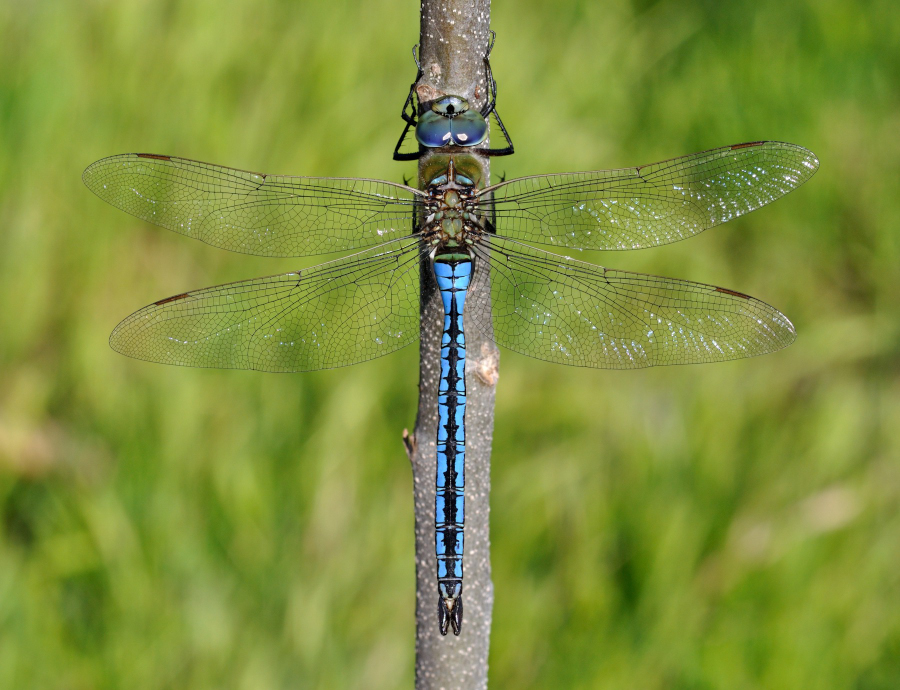
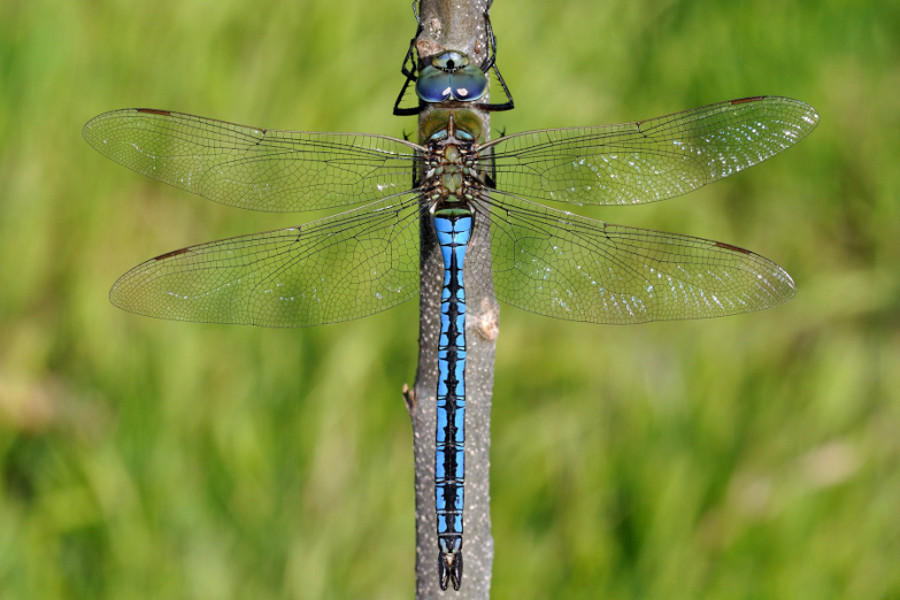
cont

diff --git a/css/layout.css b/css/layout.css
@@ -3,6 +3,7 @@ body {
     padding: 50px;
     color: #000;
     font-family: 'Ubuntu', sans-serif;
+    background-image: url(../images/03_desaturated_lightest.jpg);
 }
 
 
@@ -22,7 +23,6 @@ body {
     margin-bottom: 0;
 }
 
-!!!!!!!!!!!!NAVIGATION VIDEO 4 2:32 CONTINUE FROM THERE!!!!!!!!!!!!!!!
 
 .logo{
     grid-area:logo;
@@ -32,20 +32,25 @@ body {
     margin-bottom: 0;
 }
 
-.banner {
-    grid-area: banner;
+
+.top-title {
+    grid-area: top-title;
+    padding: 0px;
+    margin-bottom: 0;
 }
 
-.nav {
-    grid-area: nav;
-    background-color: #DDD;  /* silver */
-    font-size: 150%;
-    text-align: center;
+.header{
+    grid-area: header;
+    display: grid;
+    width: 100%;
+    align-items: center;
+    padding-bottom: 0;
+    margin-bottom: 0;
 }
 
 .main {
     grid-area: main;
-    background-color: #EEE;  /* very pale grey */
+    background-color: rgba(255,255,255,.5);  /* very pale grey */
     border: solid 1px #CCC;
 }
 
@@ -63,7 +68,7 @@ body {
 .box {
     padding: 20px;
     /* border-radius: 10px; */
-    background-color: #ddd;
+    /* background-color: #ddd; */
 }
 
 
@@ -73,6 +78,26 @@ h1, h2, h3, h4 {
     font-family: 'Ubuntu', sans-serif;
 }
 
+/* Responsive image rules */
+.responsive {
+    width: 100%;
+    height: auto;
+}
+
+.info-text{
+
+    display: flex;
+    flex-direction: column;
+
+}
+
+ul.text {
+    list-style: disc;
+    display: list-item;
+    border: none;
+    margin-left: 20px;
+}
+
 /* Navigation Links */
 .nav a {font-weight: bold;}
 .nav a:link, .nav a:visited {color: #AA0000;} /*dark red */
@@ -80,12 +105,25 @@ h1, h2, h3, h4 {
 
 
 /* links in page */
-a {font-weight: bold;}
-a:link{color: #AA0000;} /*dark_red */
-a:visited{color: #111177;} /* dark blue */
-a:hover{color: #000;}    /* Black*/
+a.nav {font-weight: bold;}
+a.nav:link, a.nav:visited {color: #AA0000;} /*dark_red */
+a.nav:hover {color: #604830; text-decoration: none;}    /*Chooclate Brown*/
 
+@media(max-width: 767px)
+{
+    .wrapper{
+        display:grid;
+        grid-template-columns: 100px 1fr;
+        grid-template-rows: auto;
+        grid-template-areas: 
+            "logo top-title "
+            "header header"
+            "main main"
+            "footer footer";
+            grid-gap: 0;
+    }
 
+}
 
 
 

diff --git a/css/navigation.css b/css/navigation.css
@@ -66,7 +66,7 @@ ul li:hover .dropdown{
     left: 0;
     top: 0;
     transition: none;
-    visibility: none;
+    visibility: visible;
     display: none;
     z-index: 1;
 

diff --git a/index.php b/index.php
@@ -29,40 +29,55 @@
     
     <div class="wrapper">
     
+    <div class="logo">
+        <a href="index.php"><img class="responsive" src="images/sphere_logo.png" alt="s" />
+        </a>
+        </div> <!-- / Logo-->
 
-        <div class="banner">
-            Banner goes here
-        </div>
+        <div class='top-title'>
+            <h2>CC Showcase</h2>
+            </div> <!-- / top title -->
 
-        <div class="box nav">
+     
+        <div class="header">
             <div class ="menu-header">
 
             <i class="fa fa-bars"></i>
 
             <div class="menu-content">
                 <ul>
-                    <li><a href="#">Home</a></li>
-                    <li><a class="dropbtn" href="#">Gallery <i class="fa fa-chevron-down">  
+                    <li><a class="nav" href="index.php">Home</a></li>
+                    <li><a class="nav dropbtn" href="#">Gallery <i class="fa fa-chevron-down">  
                     </i></a>
                         <ul class="dropdown">
-                        <li><a href='#'>Insects</a></li>
-                        <li><a href='#'>Space</a></li>
-                        <li><a href='#'>People</a></li>
+                        <li><a class="nav" href='index.php?page=insects'>Insects</a></li>
+                        <li><a class="nav" href='index.php?page=space'>Space</a></li>
+                        <li><a class="nav" href='index.php?page=people'>People</a></li>
                     </ul>                
 
                     </li>
-                    <li><a href="#">About</a></li>
-                    <li><a href="#">Links</a></li>
-                    <li><a href="#">Contact</a></li>
+                    <li><a class="nav" href="#">About</a></li>
+                    <li><a class="nav" href="index.php?page=links">Links</a></li>
+                    <li><a class="nav" href="#">Contact</a></li>
                 </ul>
             </div>
 
             </div>
         </div>
 
-        <div class = "box main">
-            Main content goes here
-        </div>
+        <?php 
+       
+        if(!isset($_REQUEST['page'])) {
+            include("home.php");
+        }
+
+        else {
+            $page=preg_replace('/[^0-9a-zA-Z]-/', '', $_REQUEST['page']);
+            include("$page.php");
+        }
+        
+        
+        ?>
        
 
         <div class="box footer">

diff --git a/home.php b/home.php
@@ -1,0 +1,30 @@
+<div class = "box main">
+        <div class = "info-text">
+            <h2>Creative Commons - Home</h2>
+<p>
+Creative Commons gives content creators and consumers a way to share works without needing to grant permission for work to be used each time.
+</p>
+
+<p>
+The goal of creative commons is to "overcome legal obstacles to the sharing of knowledge and creativity to address the world’s pressing challenges".  You can learn more about <a href="https://creativecommons.org/">Creative Commons</a> at the preceding link.
+</p>
+
+<p>
+It is easy to <a href="https://creativecommons.org/share-your-work">share your work</a> by choosing a suitable license and then putting the license information on the work.  Standard abbreviations seen in CC licenses are...
+</p>
+
+<ul class="text">
+<li>SA (share alike)</li>
+<li>BY (attribution required)</li>
+<li>NC (non-commercial)</li>
+</ul>
+
+<p>
+Many government organisations and Schools in New Zealand are Creative Commons organisations.  This means that work created by employees will be CC licensed.
+</p>
+
+<p>
+Please vist the links page to find sources of CC works and tools for correctly attributing these materials.
+</p>
+</div>
+</div>

diff --git a/links.php b/links.php
@@ -1,0 +1,27 @@
+<div class = "box main">
+    <div class = "info-text">
+        <h2>Useful Links</h2>
+
+        Below are some links that you might find useful...
+        </p>
+       
+        <h3>CC &amp; Sharing Works</h3>
+
+        <ul class="text">
+            <li><a class="single-spacing" href="https://creativecommons.org/">Creative Commons</a></li>
+            <li><a class="single-spacing" href="https://creativecommons.org/share-your-work">Share your Work</a></li>
+        </ul>
+
+        <br /><br />
+
+        <h3>Finding (and attributing) Content</h3>
+        <ul class="text">
+            <li><a class="single-spacing" href="https://search.creativecommons.org/">Search CC</a></li>
+            <li><a class="single-spacing" href="https://commons.wikimedia.org/">Wikimedia Commons</a></li>
+            <li><a class="single-spacing" href="https://lizenzhinweisgenerator.de/?lang=en">Attribution Generator</a></li>
+            <li><a class="single-spacing" href="https://pixabay.com/">Public Domain images (Pixabay)</a></li>
+        </ul>
+
+        <p>Have a great link that you think we should know about?  Please let us know!</p>
+</div>
+</div>

diff --git a/insects.php b/insects.php
@@ -1,0 +1,9 @@
+<div class = "box main">
+        <div class = "info-text">
+        <h2> Insect Gallery </h2>
+
+<p>
+    These insects images are a selection from Wikimedia commons featured pages on <a href="https://commons.wikimedia.org/wiki/Commons:Featured_pictures/Animals/Arthropods">Arthropods</a>
+</p>
+</div>
+</div>
